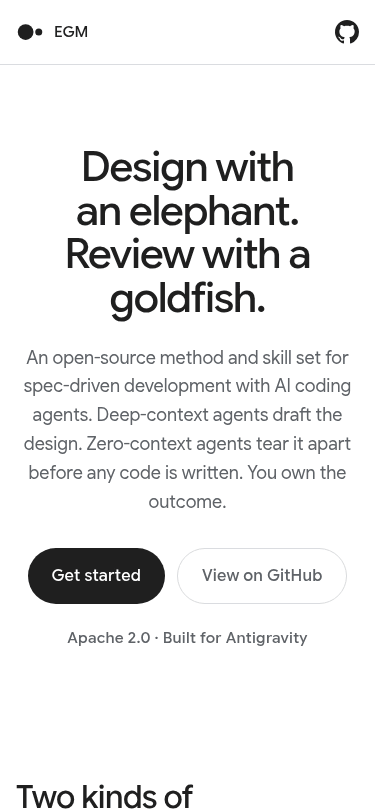
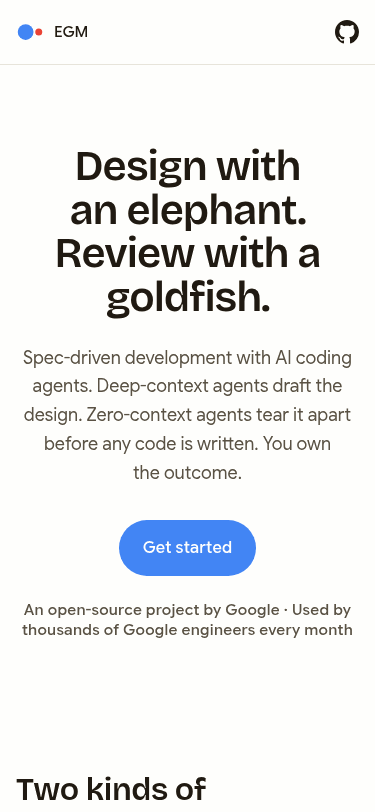
feat(site): apply Google brand palette, Bricolage Grotesque headings, and updated og/screenshots

diff --git a/site/src/styles/tokens.css b/site/src/styles/tokens.css
@@ -6,58 +6,59 @@
  * without !important. Only token names from the package are redefined here;
  * no component box styles live in this file.
  *
- * Palette: GDM-style neutral canvas, near-black primary for the pill CTA
- * (antigravity.google), Google blue reserved for focus rings and links.
+ * Palette: ultra-light warm white canvas (#fffffd) with a whisper-pale Google
+ * yellow workflow band (#fffdf5), deep warm charcoal ink (#201a12), and Google
+ * Blue (#4285f4) primary pill CTA.
  */
 :root {
   color-scheme: light dark;
 
-  /* Typeface: Google Sans Flex (self-hosted, OFL). --font-display comes from Astro's <Font>. */
-  --md-ref-typeface-brand: var(--font-display);
+  /* Typeface: Bricolage Grotesque for headings/brand, Google Sans Flex for body/labels (both self-hosted, OFL). */
+  --md-ref-typeface-brand: var(--font-heading);
   --md-ref-typeface-plain: var(--font-display);
 
   /* Surfaces */
-  --md-sys-color-background: light-dark(#ffffff, #0f1013);
-  --md-sys-color-on-background: light-dark(#1f1f1f, #e8eaed);
-  --md-sys-color-surface: light-dark(#ffffff, #0f1013);
-  --md-sys-color-surface-dim: light-dark(#f1f3f4, #0f1013);
-  --md-sys-color-surface-bright: light-dark(#ffffff, #2a2d33);
-  --md-sys-color-surface-container-lowest: light-dark(#ffffff, #0a0b0d);
-  --md-sys-color-surface-container-low: light-dark(#f8f9fa, #15171b);
-  --md-sys-color-surface-container: light-dark(#f1f3f4, #1b1e23);
-  --md-sys-color-surface-container-high: light-dark(#e9ebee, #23272d);
-  --md-sys-color-surface-container-highest: light-dark(#e1e3e6, #2b3037);
-  --md-sys-color-on-surface: light-dark(#1f1f1f, #e8eaed);
-  --md-sys-color-on-surface-variant: light-dark(#5f6368, #9aa0a6);
-  --md-sys-color-outline: light-dark(#80868b, #5f6368);
-  --md-sys-color-outline-variant: light-dark(#dadce0, #2b3037);
+  --md-sys-color-background: light-dark(#fffffd, #151310);
+  --md-sys-color-on-background: light-dark(#201a12, #f2efe4);
+  --md-sys-color-surface: light-dark(#fffffd, #151310);
+  --md-sys-color-surface-dim: light-dark(#f7f3e3, #151310);
+  --md-sys-color-surface-bright: light-dark(#fffffd, #2b261f);
+  --md-sys-color-surface-container-lowest: light-dark(#ffffff, #0f0d0a);
+  --md-sys-color-surface-container-low: light-dark(#fffdf5, #1e1b16);
+  --md-sys-color-surface-container: light-dark(#faf6e8, #24201a);
+  --md-sys-color-surface-container-high: light-dark(#f7f3e3, #2b261f);
+  --md-sys-color-surface-container-highest: light-dark(#efe9d6, #332d24);
+  --md-sys-color-on-surface: light-dark(#201a12, #f2efe4);
+  --md-sys-color-on-surface-variant: light-dark(#5a5243, #a89f8e);
+  --md-sys-color-outline: light-dark(#857b68, #6e6555);
+  --md-sys-color-outline-variant: light-dark(#eae6d8, #332d24);
 
-  /* Primary: the one filled pill per screen */
-  --md-sys-color-primary: light-dark(#1f1f1f, #ffffff);
-  --md-sys-color-on-primary: light-dark(#ffffff, #1f1f1f);
+  /* Primary: Google Blue for the filled pill CTA */
+  --md-sys-color-primary: light-dark(#4285f4, #8ab4f8);
+  --md-sys-color-on-primary: light-dark(#ffffff, #062e6f);
   --md-sys-color-primary-container: light-dark(#e8f0fe, #0b57d0);
   --md-sys-color-on-primary-container: light-dark(#041e49, #d3e3fd);
-  --md-sys-color-surface-tint: light-dark(#1f1f1f, #ffffff);
+  --md-sys-color-surface-tint: light-dark(#4285f4, #8ab4f8);
 
   /* Secondary: focus ring and links */
   --md-sys-color-secondary: light-dark(#0b57d0, #a8c7fa);
   --md-sys-color-on-secondary: light-dark(#ffffff, #062e6f);
-  --md-sys-color-secondary-container: light-dark(#f1f3f4, #2b3037);
-  --md-sys-color-on-secondary-container: light-dark(#1f1f1f, #e8eaed);
+  --md-sys-color-secondary-container: light-dark(#f7f3e3, #2b261f);
+  --md-sys-color-on-secondary-container: light-dark(#201a12, #f2efe4);
 
-  --md-sys-color-inverse-surface: light-dark(#303134, #e8eaed);
-  --md-sys-color-inverse-on-surface: light-dark(#f1f3f4, #1f1f1f);
-  --md-sys-color-inverse-primary: light-dark(#a8c7fa, #0b57d0);
+  --md-sys-color-inverse-surface: light-dark(#2b261f, #f2efe4);
+  --md-sys-color-inverse-on-surface: light-dark(#f7f3e3, #201a12);
+  --md-sys-color-inverse-primary: light-dark(#8ab4f8, #0b57d0);
 
-  /* Type scale: tightened display sizes for the hero, otherwise package defaults */
-  --md-sys-typescale-display-lg: 500 clamp(2.625rem, 1rem + 4.8vw, 5rem) / 1.04 var(--md-ref-typeface-brand);
+  /* Type scale: Bricolage Grotesque (600) for display/headline/title, Google Sans Flex for body/label */
+  --md-sys-typescale-display-lg: 600 clamp(2.625rem, 1rem + 4.8vw, 5rem) / 1.04 var(--md-ref-typeface-brand);
   --md-sys-typescale-display-lg-tracking: -0.025em;
-  --md-sys-typescale-headline-lg: 500 clamp(2rem, 1.4rem + 2.4vw, 3rem) / 1.1 var(--md-ref-typeface-brand);
+  --md-sys-typescale-headline-lg: 600 clamp(2rem, 1.4rem + 2.4vw, 3rem) / 1.1 var(--md-ref-typeface-brand);
   --md-sys-typescale-headline-lg-tracking: -0.015em;
-  --md-sys-typescale-headline-md: 500 clamp(1.625rem, 1.3rem + 1.4vw, 2.25rem) / 1.15 var(--md-ref-typeface-brand);
+  --md-sys-typescale-headline-md: 600 clamp(1.625rem, 1.3rem + 1.4vw, 2.25rem) / 1.15 var(--md-ref-typeface-brand);
   --md-sys-typescale-headline-md-tracking: -0.01em;
-  --md-sys-typescale-title-lg: 500 1.375rem / 1.3 var(--md-ref-typeface-brand);
-  --md-sys-typescale-title-lg-tracking: 0;
+  --md-sys-typescale-title-lg: 600 1.375rem / 1.3 var(--md-ref-typeface-brand);
+  --md-sys-typescale-title-lg-tracking: -0.005em;
   --md-sys-typescale-body-lg: 400 1.125rem / 1.6 var(--md-ref-typeface-plain);
   --md-sys-typescale-body-lg-tracking: 0;
   --md-sys-typescale-body-md: 400 1rem / 1.55 var(--md-ref-typeface-plain);

diff --git a/site/src/styles/global.css b/site/src/styles/global.css
@@ -28,7 +28,6 @@ body {
   background: var(--md-sys-color-surface);
   color: var(--md-sys-color-on-surface);
   font: var(--md-sys-typescale-body-md);
-  font-family: var(--font-display);
   letter-spacing: var(--md-sys-typescale-body-md-tracking);
   -webkit-font-smoothing: antialiased;
   text-rendering: optimizeLegibility;
@@ -121,7 +120,7 @@ svg {
 }
 
 .section-head {
-  max-inline-size: 760px;
+  max-inline-size: 840px;
   margin-block-end: clamp(32px, 5vw, 56px);
 }
 

diff --git a/site/README.md b/site/README.md
@@ -28,8 +28,8 @@ GitHub Pages.
   `labs/gb`) in its native-element form: the page emits the package's own
   class names (`btn`, `icon-btn`, `list-item`, `badge`, `divider`) and imports the
   package stylesheets. No custom elements, no Lit runtime.
-- Google Sans Flex and Google Sans Code, self-hosted under
-  `src/assets/fonts/` (OFL).
+- Bricolage Grotesque, Google Sans Flex, and Google Sans Code, self-hosted
+  under `src/assets/fonts/` (OFL).
 
 ## Rules
 
